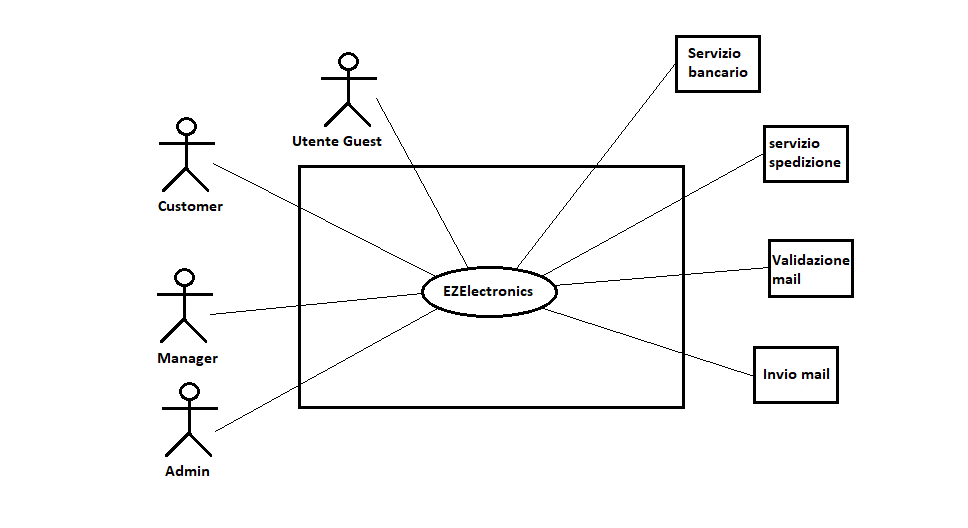
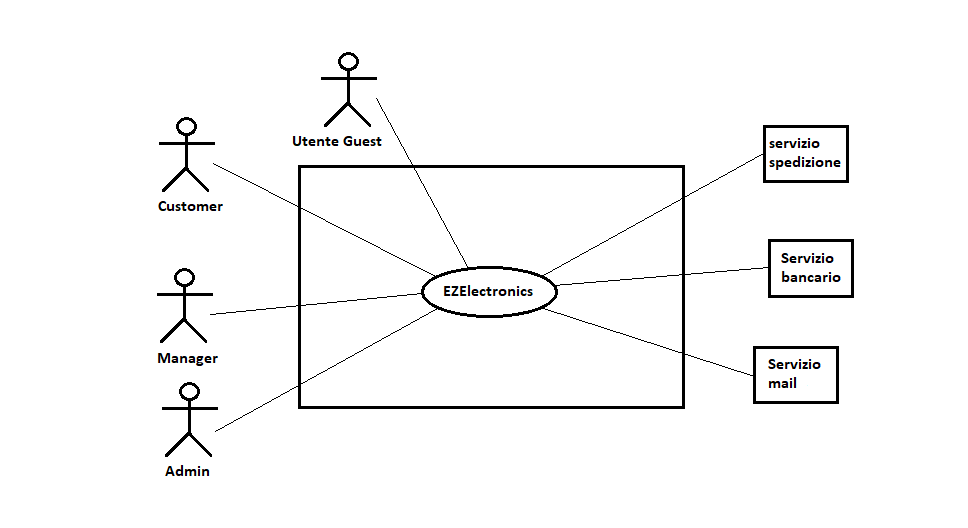
estimation V1 e V2 modifiche gant

Changed region(s): [[0.6818, 0.0606, 0.8058, 0.1818], [0.7748, 0.6667, 0.8678, 0.7576], [0.7748, 0.4848, 0.8988, 0.5455]]

diff --git a/EstimationV1.md b/EstimationV1.md
@@ -21,13 +21,14 @@ Consider the EZElectronics  project in CURRENT version (as given by the teachers
 ### 
 |         Nome componente   | Effort stimata (person hours)     |             
 | ------------------------- | --------------------------------- | 
-| requirement document      | 30                                |
+| requirement document      | 35                                |
 | GUI prototype             | 15                                |
 | design document           | 15                                |
 | code                      | 150                               |
 | unit tests                | 25                                |
 | api tests                 | 25                                |
 | management documents      | 10                                |
+| TOTALE                    | 275                               |
 
 
 # Estimate by activity decomposition
@@ -38,21 +39,22 @@ Consider the EZElectronics  project in CURRENT version (as given by the teachers
 | management documents                 | 10                                |
 | Documento dei requisiti              |                                   |
 | Definire requisiti                   | 10                                |
-| definire contextDiagram e interfacce | 3                                 |
-| Scrivere Stories and personas        | 2                                 |
+| definire contextDiagram e interfacce | 4                                 |
+| Scrivere Stories and personas        | 3                                 |
 | Scrivere gli use cases               | 20                                |
-| Definire glossary e system design    | 3                                 |
-| Definire deployment diagram          | 3                                 |
+| Definire glossary e system design    | 5                                 |
+| Definire deployment diagram          | 4                                 |
 | Disegnare il prototipo della GUI     |                                   |
 | Define interaction                   | 3                                 |
 | Define layout                        | 15                                |
 | Codificare l'applicativo             |                                   |
-| Definire classi                      | 15                                |
-| Definire metodi                      | 45                                |
-| Scrivere codice                      | 60                                |
+| Definire classi                      | 20                                |
+| Definire metodi                      | 55                                |
+| Scrivere codice                      | 75                                |
 | Test e debug                         |                                   |
 | Test unit                            | 25                                |
 | Test api                             | 25                                |
+| TOTALE                               | 274                               |
 
 ###
 
@@ -60,11 +62,14 @@ Consider the EZElectronics  project in CURRENT version (as given by the teachers
 
 # Summary
 
-Report here the results of the three estimation approaches. The  estimates may differ. Discuss here the possible reasons for the difference
+Consideriamo la stima "by size" la meno precisa visto che tiene conto solo delle linee di codice scritte e non del tempo impiegato per
+le fasi di project management, planning e la creazione dei documenti ad esso necessari.
+Le altre due stime sono piu' precise in quanto tengono conto delle altre fasi di progetto.
 
-|                                    | Estimated effort (person hour)          | Estimated duration (calendar weeks) |          
+
+|                                    | Effort stimata (person hour)            | Durata stimata     (calendar weeks) |          
 | ---------------------------------- | --------------------------------------- | ----------------------------------- |
 | estimate by size                   | 200                                     | 1.25                                |
-| estimate by product decomposition  | 270                                     | ~1.69                               |
-| estimate by activity decomposition | 239                                     | ~1.5                                |
+| estimate by product decomposition  | 275                                     | ~1.72                               |
+| estimate by activity decomposition | 274                                     | ~1.71                               |
 

diff --git a/EstimationV2.md b/EstimationV2.md
@@ -1,7 +1,7 @@
 # Project Estimation - FUTURE
-Date:
+Date: 01/05/24
 
-Version:
+Version: V2
 
 
 # Estimation approach
@@ -24,10 +24,11 @@ Consider the EZElectronics  project in FUTURE version (as proposed by your team 
 | requirement document      | 40                                |
 | GUI prototype             | 25                                |
 | design document           | 20                                |
-| code                      | 300                               |
+| code                      | 400                               |
 | unit tests                | 50                                |
 | api tests                 | 50                                |
 | management documents      | 30                                |
+| TOTALE                    | 615                               |
 
 
 # Estimate by activity decomposition
@@ -38,35 +39,36 @@ Consider the EZElectronics  project in FUTURE version (as proposed by your team 
 | management documents                 | 20                                |
 | Documento dei requisiti              |                                   |
 | Definire requisiti                   | 15                                |
-| definire contextDiagram e interfacce | 3                                 |
-| Scrivere Stories and personas        | 2                                 |
+| definire contextDiagram e interfacce | 4                                 |
+| Scrivere Stories and personas        | 3                                 |
 | Scrivere gli use cases               | 40                                |
-| Definire glossary e system design    | 4                                 |
-| Definire deployment diagram          | 3                                 |
+| Definire glossary e system design    | 6                                 |
+| Definire deployment diagram          | 4                                 |
 | Disegnare il prototipo della GUI     |                                   |
 | Define interaction                   | 5                                 |
 | Define layout                        | 25                                |
 | Codificare l'applicativo             |                                   |
-| Definire classi                      | 30                                |
-| Definire metodi                      | 80                                |
-| Scrivere codice                      | 100                               |
+| Definire classi                      | 50                                |
+| Definire metodi                      | 150                               |
+| Scrivere codice                      | 200                               |
 | Test e debug                         |                                   |
 | Test unit                            | 50                                |
 | Test api                             | 50                                |
+| TOTALE                               | 612                               |
 
 ###
 
-![Gant](./img/GantV1.png)
+![Gant](./img/GantV2.png)
 
 # Summary
 
 Report here the results of the three estimation approaches. The  estimates may differ. Discuss here the possible reasons for the difference
 
-|                                    | Estimated effort (person hour)          | Estimated duration (calendar weeks) |          
+|                                    | Effort stimata (person hour)            | Durata stimata     (calendar weeks) |
 | ---------------------------------- | --------------------------------------- | ----------------------------------- |
 | estimate by size                   | 500                                     | 3.125                               |
-| estimate by product decomposition  | 515                                     | ~3.22                               |
-| estimate by activity decomposition | 427                                     | ~2.67                               |
+| estimate by product decomposition  | 615                                     | ~3.84                               |
+| estimate by activity decomposition | 612                                     | ~3.82                               |
 
 
 

diff --git a/RequirementsDocumentV2.md b/RequirementsDocumentV2.md
@@ -48,8 +48,7 @@ EZElectronics (read EaSy Electronics) is a software application designed to help
 | Servizio di spedizione| Servizio per la spedizione dei prodotti                                        |
 | Amministratore        | Amministratore del sistema                                                     |
 | Utente guest          | Utente che non ha ancora effettuato la fase di login o la fase di registrazione|
-| Validazione mail      | Servizio per la validazione che le mail inserite siano corrette                |
-| Invio mail            | Servizio per scrivere ed inviare delle mail                                    |
+| Servizio mail         | Servizio per scrivere ed inviare delle mail                                    |
 
 # Context Diagram and interfaces
 
@@ -67,8 +66,7 @@ EZElectronics (read EaSy Electronics) is a software application designed to help
 | Amministratore        | GUI (interfaccia per visualizzare e gestire i prodotti e gli utenti)      | Console           |
 | Servizio di pagamento | APIs                                                                      | Internet          |
 | Servizio di spedizione| APIs                                                                      | Internet          |
-| Validazione mail      | APIs                                                                      | Internet          |
-| Invio mail            | APIs                                                                      | Internet          |
+| Servizio mail         | APIs                                                                      | Internet          |
 
 # Stories and personas
 
